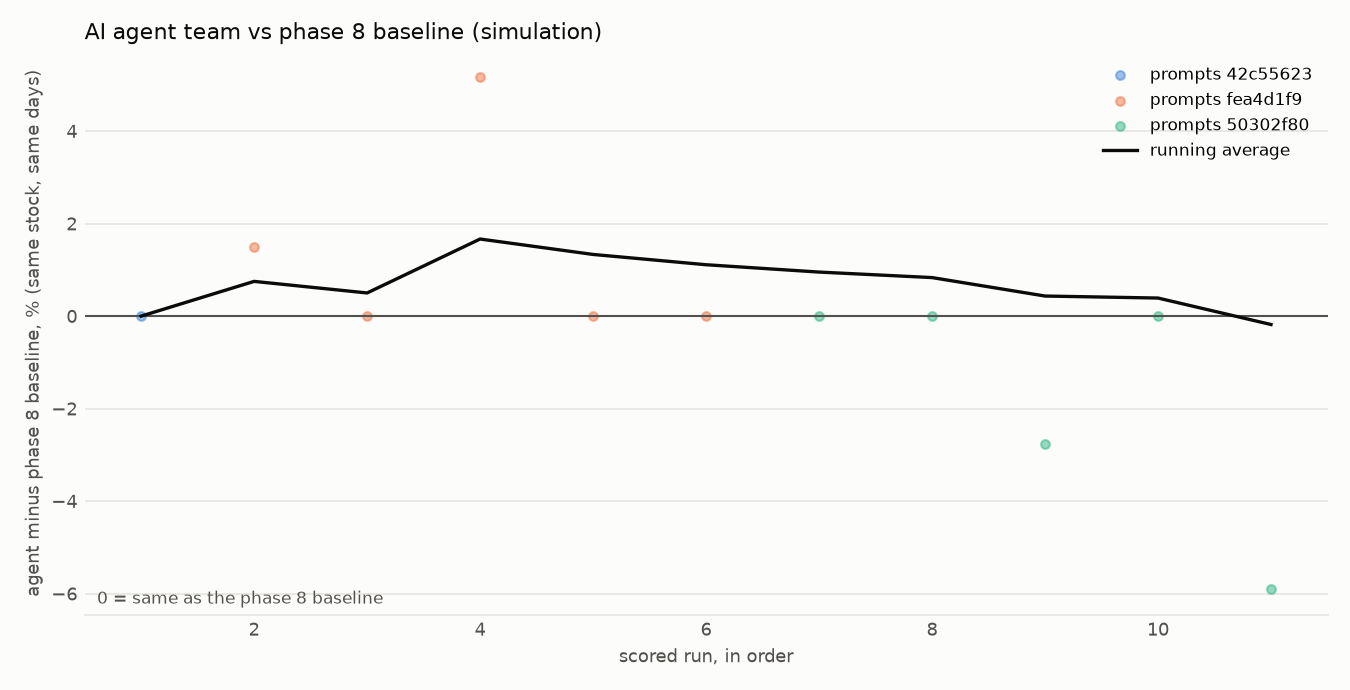
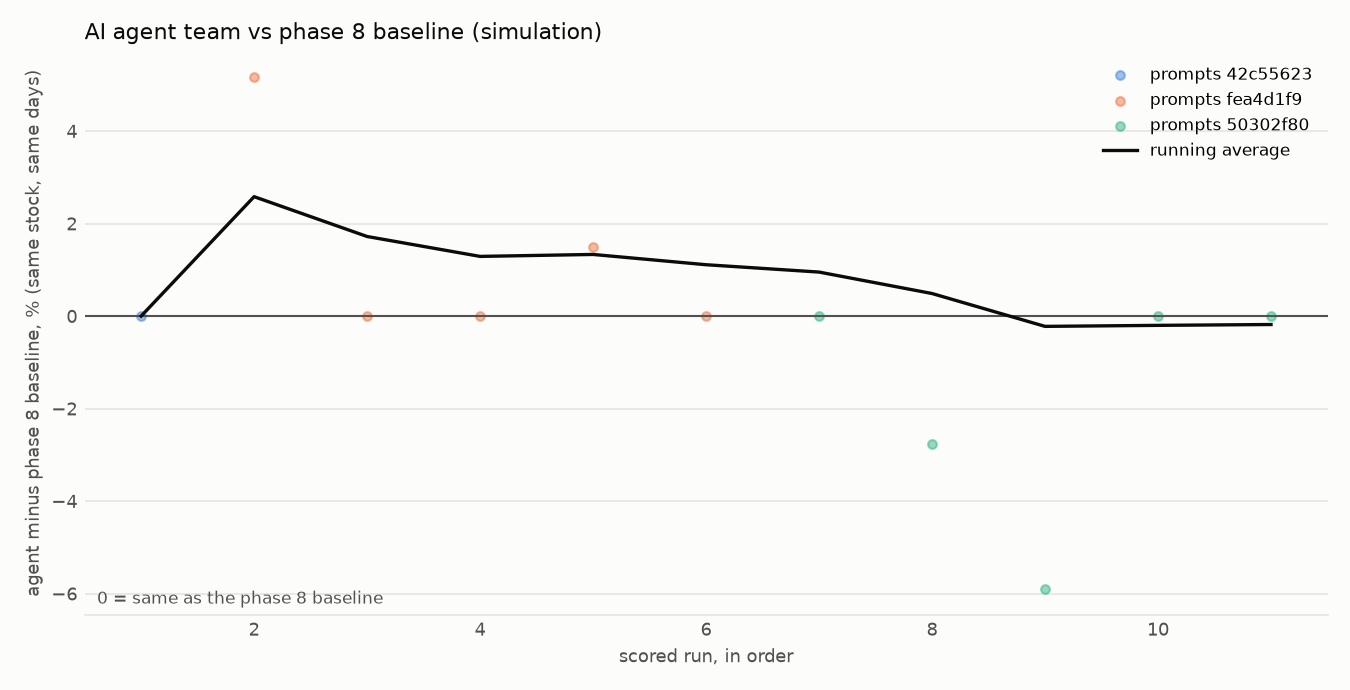
Track the Strategist's plan and grade every Risk Manager veto
- Strategist prompt (now 7108011e) ends with a machine-readable PLAN block
- agent_score.py reads the plan from strategist.txt, reply_3.txt or a
  backfilled strategist_plan.txt, plays it out on later prices whether or
  not it was approved, and logs plan_*, vetoed, veto_right and
  veto_saved_pct; the scoreboard adds plans_buy, vetoes, veto_right_pct
  and total_veto_saved_pct
- backfilled the 11 earlier runs from their Strategist replies and
  re-scored them: 4 vetoed BUY plans, 3 right, 8.70 points saved in total
- 00_HOW_TO_RUN asks manual runs to save the Strategist reply too
- tests for plan parsing, veto grading and file precedence (25 pass)

diff --git a/agent_score.py b/agent_score.py
@@ -14,6 +14,11 @@ a NO TRADE before a fall is a "good skip", and vs_buy_and_hold_pct shows the los
 A BUY the rules did not allow (no approval, Risk Manager rejected, size or stop over the limit) is logged as a broken
 rule and counted as NO TRADE.
 
+The Strategist's PLAN block (from strategist.txt, reply_3.txt or a backfilled strategist_plan.txt in the run folder)
+is played out too, approved or not. When the team vetoed a BUY plan, the veto is right if that plan would have lost
+money, and veto_saved_pct is the loss it avoided (negative when it blocked a winner). This is how the record shows
+whether the Risk Manager is helping.
+
 Writes  data/agents/trade_log.csv     one row per run (the guide's trade-log columns plus the scores)
         data/agents/scoreboard.csv    totals per prompt version and split: hit rate, excess vs baseline, losing streak
         figures/agent_vs_phase8.png   running average excess return over the phase 8 baseline, run by run
@@ -46,7 +51,10 @@ LOG_COLS = [
     # scoring
     "run_id", "split", "blind", "prompts_version", "baseline_version", "decision_date", "action", "entry_date",
     "exit_date", "exit_reason", "agent_ret_pct", "baseline_ret_pct", "soxx_ret_pct", "excess_vs_baseline_pct",
-    "stock_hold_ret_pct", "vs_buy_and_hold_pct", "good_skip", "status",
+    "stock_hold_ret_pct", "vs_buy_and_hold_pct", "good_skip",
+    # the Strategist's plan, played out whether or not it was approved, so each veto can be judged
+    "plan_source", "plan_action", "plan_setup", "plan_size_pct", "plan_stop_pct", "plan_target_pct", "plan_hold_days",
+    "plan_ret_pct", "plan_exit_reason", "vetoed", "veto_right", "veto_saved_pct", "status",
 ]
 
 
@@ -54,33 +62,71 @@ class DecisionError(ValueError):
     pass
 
 
-def parse_decision(text):
-    """Read the Boss's DECISION block. Raises DecisionError rather than guessing when it is missing or malformed."""
-    m = re.search(r"^\s*\**DECISION\**\s*$(.*?)^\s*\**END DECISION\**\s*$", text, re.S | re.M | re.I)
-    if not m:
-        raise DecisionError("No DECISION ... END DECISION block found at the end of the Boss's reply.")
+NUMBERS = ("SIZE_PCT", "STOP_PCT", "TARGET_PCT", "MAX_HOLD_DAYS")
+# Where the Strategist's reply may be saved, in order: by hand, by an automated run, or backfilled for old runs.
+PLAN_FILES = ("strategist.txt", "reply_3.txt", "strategist_plan.txt")
+
+
+def read_block(text, name):
+    """The fields of the last NAME ... END NAME block in text, or None when there is no such block."""
+    found = re.findall(rf"^\s*\**{name}\**\s*$(.*?)^\s*\**END {name}\**\s*$", text, re.S | re.M | re.I)
+    if not found:
+        return None
     d = {}
-    for line in m.group(1).splitlines():
+    for line in found[-1].splitlines():
         k, sep, v = line.strip().strip("*").partition(":")
         k = k.strip().strip("*").upper().replace(" ", "_")
         if sep and k in FIELDS:
             d[k] = v.strip().strip("*").strip()
-    missing = [k for k in REQUIRED if not d.get(k)]
+    return d
+
+
+def check_numbers_and_action(d, name, required):
+    missing = [k for k in required if not d.get(k)]
     if missing:
-        raise DecisionError(f"DECISION block is missing: {', '.join(missing)}")
-    d["FINAL_STATUS"] = d["FINAL_STATUS"].upper()
+        raise DecisionError(f"{name} block is missing: {', '.join(missing)}")
     d["ACTION"] = d["ACTION"].upper().replace("_", " ")
-    if d["FINAL_STATUS"] not in STATUSES:
-        raise DecisionError(f"FINAL_STATUS must be one of {sorted(STATUSES)}, got {d['FINAL_STATUS']!r}")
     if d["ACTION"] not in {"BUY", "NO TRADE"}:
         raise DecisionError(f"ACTION must be BUY or NO TRADE (long-only), got {d['ACTION']!r}")
-    for k in ("SIZE_PCT", "STOP_PCT", "TARGET_PCT", "MAX_HOLD_DAYS"):
+    for k in NUMBERS:
         try:
             d[k] = float(d[k].replace("%", "").replace(",", ""))
         except ValueError:
             raise DecisionError(f"{k} must be a plain number, got {d[k]!r}") from None
+    return d
+
+
+def parse_decision(text):
+    """Read the Boss's DECISION block. Raises DecisionError rather than guessing when it is missing or malformed."""
+    d = read_block(text, "DECISION")
+    if d is None:
+        raise DecisionError("No DECISION ... END DECISION block found at the end of the Boss's reply.")
+    d = check_numbers_and_action(d, "DECISION", REQUIRED)
+    d["FINAL_STATUS"] = d["FINAL_STATUS"].upper()
+    if d["FINAL_STATUS"] not in STATUSES:
+        raise DecisionError(f"FINAL_STATUS must be one of {sorted(STATUSES)}, got {d['FINAL_STATUS']!r}")
     d["RISK_DECISION"] = d.get("RISK_DECISION", "").upper()
     return d
+
+
+def parse_plan(text):
+    """Read the Strategist's PLAN block: None if there isn't one, DecisionError if it is malformed."""
+    d = read_block(text, "PLAN")
+    return None if d is None else check_numbers_and_action(d, "PLAN", ["ACTION", *NUMBERS])
+
+
+def find_plan(run_dir):
+    """(plan, source note) from the first file in the run folder that holds a PLAN block."""
+    for name in PLAN_FILES:
+        p = run_dir / name
+        if p.exists():
+            try:
+                plan = parse_plan(p.read_text(encoding="utf-8"))
+            except DecisionError as e:
+                return None, f"{name}: unreadable PLAN ({e})"
+            if plan is not None:
+                return plan, name
+    return None, ""
 
 
 def check_rules(d, cfg):
@@ -113,10 +159,36 @@ def baseline_held(ticker, out_dir):
     return (w[ticker] > 0).astype(float).shift(1).fillna(0), w.index
 
 
+def score_plan(plan, source, action, price, D, cfg):
+    """Play out the Strategist's plan on the prices that followed and judge the veto, if there was one.
+    A veto is right when the vetoed plan would have lost money after costs; veto_saved_pct is the loss it avoided
+    (negative when it blocked a winner)."""
+    out = dict(plan_source=source, plan_action="", plan_setup="", plan_size_pct=None, plan_stop_pct=None,
+               plan_target_pct=None, plan_hold_days=None, plan_ret_pct=None, plan_exit_reason="", vetoed="",
+               veto_right="", veto_saved_pct=None)
+    if plan is None:
+        return out, False
+    out.update(plan_action=plan["ACTION"], plan_setup=plan.get("SETUP", ""))
+    if plan["ACTION"] != "BUY":
+        return out, False
+    hold = int(min(max(plan["MAX_HOLD_DAYS"], 1), cfg["max_hold_days"]))
+    p = sim.simulate_trade(price, D, "BUY", plan["SIZE_PCT"], plan["STOP_PCT"], plan["TARGET_PCT"], hold, cfg)
+    out.update(plan_size_pct=plan["SIZE_PCT"], plan_stop_pct=plan["STOP_PCT"], plan_target_pct=plan["TARGET_PCT"],
+               plan_hold_days=hold, vetoed="yes" if action == "NO TRADE" else "no")
+    if p["status"] != "closed":
+        return out, True
+    out.update(plan_ret_pct=p["ret_pct"], plan_exit_reason=p["exit_reason"])
+    if action == "NO TRADE":
+        out.update(veto_right="yes" if p["ret_pct"] < 0 else "no", veto_saved_pct=-p["ret_pct"])
+    return out, False
+
+
 def score(key, decision, cfg, usd, out_dir):
     t, D = key["ticker"], pd.Timestamp(key["decision_date"])
     price = usd[t]
     action, broken = check_rules(decision, cfg)
+    plan, source = find_plan(out_dir / "runs" / key["run_id"])
+    plan_cols, plan_pending = score_plan(plan, source, action, price, D, cfg)
     hold = int(decision["MAX_HOLD_DAYS"]) if action == "BUY" else cfg["max_hold_days"]
     o = sim.simulate_trade(price, D, action, decision["SIZE_PCT"], decision["STOP_PCT"], decision["TARGET_PCT"], hold, cfg)
     if action == "BUY":
@@ -130,8 +202,8 @@ def score(key, decision, cfg, usd, out_dir):
         agent = 0.0
     # what simply buying at the next close and holding for the whole period would have done (no stop, no target)
     bh = sim.simulate_trade(price, D, "BUY", 0, 1e9, 1e9, hold, cfg)
-    pending = pending or bh["status"] != "closed"
-    row = dict(status="pending" if pending else "scored", action=action, entry_date=start, exit_date=end,
+    pending = pending or bh["status"] != "closed" or plan_pending
+    row = dict(**plan_cols,status="pending" if pending else "scored", action=action, entry_date=start, exit_date=end,
                exit_reason=o["exit_reason"] if action == "BUY" else "no position",
                agent_ret_pct=None, baseline_ret_pct=None, soxx_ret_pct=None, excess_vs_baseline_pct=None,
                stock_hold_ret_pct=None, vs_buy_and_hold_pct=None, good_skip="")
@@ -181,6 +253,7 @@ def scoreboard(log):
     groups += [(("all versions", s), g) for s, g in done.groupby("split")]
     for (ver, split), g in groups:
         buys, skips = g[g.action == "BUY"], g[g.action != "BUY"]
+        vetoes = g[(g.vetoed == "yes") & g.plan_ret_pct.notna()]
         ex = g.excess_vs_baseline_pct.dropna()
         rows.append(dict(
             prompts_version=ver, split=split, runs=len(g), buys=len(buys), no_trades=len(g) - len(buys),
@@ -191,6 +264,10 @@ def scoreboard(log):
             beat_baseline_pct=100 * (ex > 0).mean() if len(ex) else np.nan,
             avg_stock_hold_ret_pct=g.stock_hold_ret_pct.mean(), avg_vs_buy_and_hold_pct=g.vs_buy_and_hold_pct.mean(),
             good_skip_pct=100 * (skips.good_skip == "yes").mean() if len(skips) else np.nan,
+            # the Risk Manager's record: BUY plans it vetoed, how many of those would have lost, the total it saved
+            plans_buy=int((g.plan_action == "BUY").sum()), vetoes=len(vetoes),
+            veto_right_pct=100 * (vetoes.veto_right == "yes").mean() if len(vetoes) else np.nan,
+            total_veto_saved_pct=vetoes.veto_saved_pct.sum() if len(vetoes) else np.nan,
             worst_trade_pct=buys.agent_ret_pct.min() if len(buys) else np.nan,
             longest_losing_streak=longest_streak(buys.agent_ret_pct), first_run=g.date_time.min()[:10],
             last_run=g.date_time.max()[:10]))
@@ -280,6 +357,16 @@ def main():
                   f" | agent minus baseline {f(row['excess_vs_baseline_pct'])}")
             print(f"  holding the stock instead: {f(row['stock_hold_ret_pct'])} | agent minus holding "
                   f"{f(row['vs_buy_and_hold_pct'])}" + (f" | good skip: {row['good_skip']}" if row["good_skip"] else ""))
+            if row["plan_action"] == "BUY":
+                verdict = (f"veto {'right' if row['veto_right'] == 'yes' else 'wrong'}, saved {f(row['veto_saved_pct'])}"
+                           if row["vetoed"] == "yes" else "approved")
+                print(f"  Strategist's plan ({row['plan_source']}): BUY {row['plan_size_pct']:g}% size, "
+                      f"-{row['plan_stop_pct']:g}% stop, +{row['plan_target_pct']:g}% target -> would have made "
+                      f"{f(row['plan_ret_pct'])} ({row['plan_exit_reason']}); {verdict}")
+            elif row["plan_source"]:
+                print(f"  Strategist's plan ({row['plan_source']}): {row['plan_action'] or 'unreadable'}")
+            else:
+                print("  Strategist's plan: not saved (save its reply as strategist.txt to judge the Risk Manager)")
     else:
         raise SystemExit("Give a run id, or --update.")
     board = pd.read_csv(out / "scoreboard.csv")

diff --git a/tests/test_agents.py b/tests/test_agents.py
@@ -118,6 +118,59 @@ class ParseDecision(unittest.TestCase):
         self.assertEqual(score.check_rules(score.parse_decision(GOOD), CFG), ("BUY", []))
 
 
+PLAN = """Strategist analysis...
+
+PLAN
+ACTION: BUY
+SETUP: pullback
+SIZE_PCT: 5
+STOP_PCT: 8
+TARGET_PCT: 10
+MAX_HOLD_DAYS: 20
+END PLAN
+"""
+
+
+class StrategistPlan(unittest.TestCase):
+    def test_parse_and_missing(self):
+        self.assertEqual(score.parse_plan(PLAN)["STOP_PCT"], 8.0)
+        self.assertIsNone(score.parse_plan("No plan block here."))
+        with self.assertRaises(score.DecisionError):
+            score.parse_plan(PLAN.replace("STOP_PCT: 8\n", ""))
+
+    def test_plan_and_decision_blocks_are_read_separately(self):
+        both = PLAN + "\n" + GOOD
+        self.assertEqual(score.parse_plan(both)["TARGET_PCT"], 10.0)
+        self.assertEqual(score.parse_decision(both)["TARGET_PCT"], 14.0)
+
+    def test_veto_of_a_loser_is_right(self):
+        s = series([100, 100, 95, 91, 90])                  # plan's 8% stop is hit
+        cols, pending = score.score_plan(score.parse_plan(PLAN), "x", "NO TRADE", s, s.index[0], CFG)
+        self.assertFalse(pending)
+        self.assertEqual((cols["vetoed"], cols["veto_right"], cols["plan_exit_reason"]), ("yes", "yes", "stop"))
+        self.assertAlmostEqual(cols["veto_saved_pct"], -cols["plan_ret_pct"])
+        self.assertGreater(cols["veto_saved_pct"], 0)
+
+    def test_veto_of_a_winner_is_wrong_and_approval_is_not_a_veto(self):
+        s = series([100, 100, 104, 111, 112])
+        cols, _ = score.score_plan(score.parse_plan(PLAN), "x", "NO TRADE", s, s.index[0], CFG)
+        self.assertEqual((cols["veto_right"], cols["plan_exit_reason"]), ("no", "target"))
+        self.assertLess(cols["veto_saved_pct"], 0)
+        cols, _ = score.score_plan(score.parse_plan(PLAN), "x", "BUY", s, s.index[0], CFG)
+        self.assertEqual((cols["vetoed"], cols["veto_right"]), ("no", ""))
+
+    def test_find_plan_prefers_the_saved_reply_over_the_backfill(self):
+        with tempfile.TemporaryDirectory() as tmp:
+            d = Path(tmp)
+            self.assertEqual(score.find_plan(d), (None, ""))
+            (d / "strategist_plan.txt").write_text(PLAN.replace("ACTION: BUY", "ACTION: NO TRADE"), encoding="utf-8")
+            (d / "reply_3.txt").write_text("an old reply with no PLAN block", encoding="utf-8")
+            self.assertEqual(score.find_plan(d)[1], "strategist_plan.txt")
+            (d / "strategist.txt").write_text(PLAN, encoding="utf-8")
+            plan, src = score.find_plan(d)
+            self.assertEqual((plan["ACTION"], src), ("BUY", "strategist.txt"))
+
+
 @unittest.skipUnless(HAVE_DB, "needs data/market/market.db")
 class WithMarketData(unittest.TestCase):
     @classmethod

diff --git a/agent_packets.py b/agent_packets.py
@@ -226,9 +226,10 @@ HOW_TO = """HOW TO RUN {run_id} (simulation only)
 1. In Claude, open a new chat (or a Project chat) for each agent.
 2. Paste 1_researcher.txt. Copy the handoff block it ends with.
 3. Paste 2_news_analyst.txt, replacing [PASTE THE RESEARCHER'S HANDOFF BLOCK HERE] with that block.
-4. Paste 3_strategist.txt with both handoffs.
+4. Paste 3_strategist.txt with both handoffs. Save its whole reply as strategist.txt in this folder
+   (its PLAN block lets the scorer check whether the Risk Manager's call was right).
 5. Skip 4_coder.txt in manual runs (read it once to see why).
-6. Paste 5_risk_manager.txt with the Strategist's handoff.
+6. Paste 5_risk_manager.txt with the Strategist's handoff and PLAN blocks.
 7. Paste 6_boss.txt with all four handoffs.
 8. Save the Boss's whole reply as boss.txt in this folder, then score it:
        python agent_score.py {run_id}

diff --git a/README.md b/README.md
@@ -270,11 +270,13 @@ handoff block into the next. The Boss ends with a `DECISION` block.
 on closes, fees and slippage), compares it with what the baseline earned on the same stock over the same days and with
 SOXX. It also compares every run with simply buying the stock and holding it for the whole period (same costs, no
 stop or target). That credits a NO TRADE before a fall as a "good skip" even when the baseline was out of the stock
-too. It appends to:
+too. If the Strategist's reply is saved in the run folder as `strategist.txt`, its `PLAN` block is played out as
+well, approved or not. A veto counts as right when the vetoed plan would have lost money, so the record shows whether
+the Risk Manager is helping. (Runs from before the PLAN block have a backfilled `strategist_plan.txt`.) It appends to:
 - `data/agents/trade_log.csv`: one row per run, using the guide's trade-log columns plus the scores
 - `data/agents/scoreboard.csv`: per prompt version and split: hit rate, average excess over the baseline, how often
-  it beat the baseline, average result vs holding the stock, share of skips that were good skips, worst trade,
-  longest losing streak
+  it beat the baseline, average result vs holding the stock, share of skips that were good skips, BUY plans proposed,
+  vetoes, share of vetoes that were right, total return the vetoes saved, worst trade, longest losing streak
 - `figures/agent_vs_phase8.png`: the running average excess over the baseline, run by run, coloured by prompt version
 
 Every run records a `prompts_version` (a hash of `agents/prompts/`), so changing a prompt starts a new line on the

diff --git a/agents/prompts/3_strategist.md b/agents/prompts/3_strategist.md
@@ -23,6 +23,20 @@ Report:
 
 If a number you need is missing, write MISSING. Do not guess. Never call a plan safe, profitable or high-probability.
 
+After your handoff block, end your reply with this block, filled in. The scoring script reads it to check later
+whether the Risk Manager's call on your plan was right, so keep the labels and use plain numbers (no % signs).
+ACTION is BUY if you propose a trade at the Day 0 close, even one you have doubts about, and NO TRADE if there is no
+setup (then the four numbers are 0).
+
+PLAN
+ACTION: <BUY | NO TRADE>
+SETUP: <setup name or none>
+SIZE_PCT: <number>
+STOP_PCT: <number>
+TARGET_PCT: <number>
+MAX_HOLD_DAYS: <number>
+END PLAN
+
 === FIXED STRATEGY RULES AND LIMITS ===
 {RULES}
 
